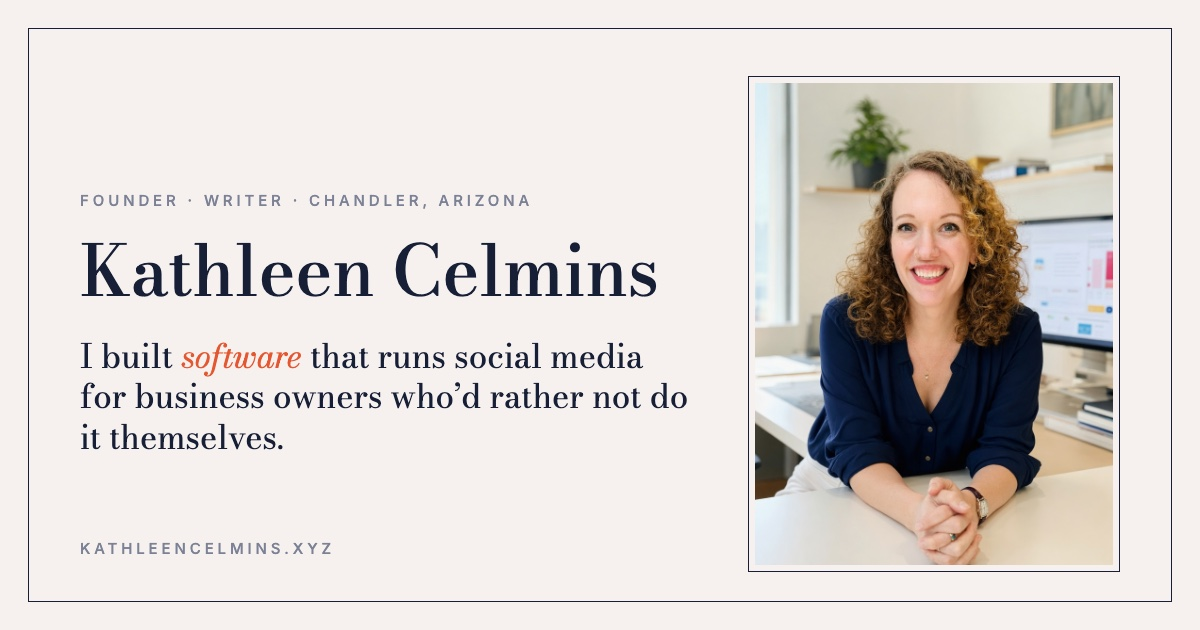
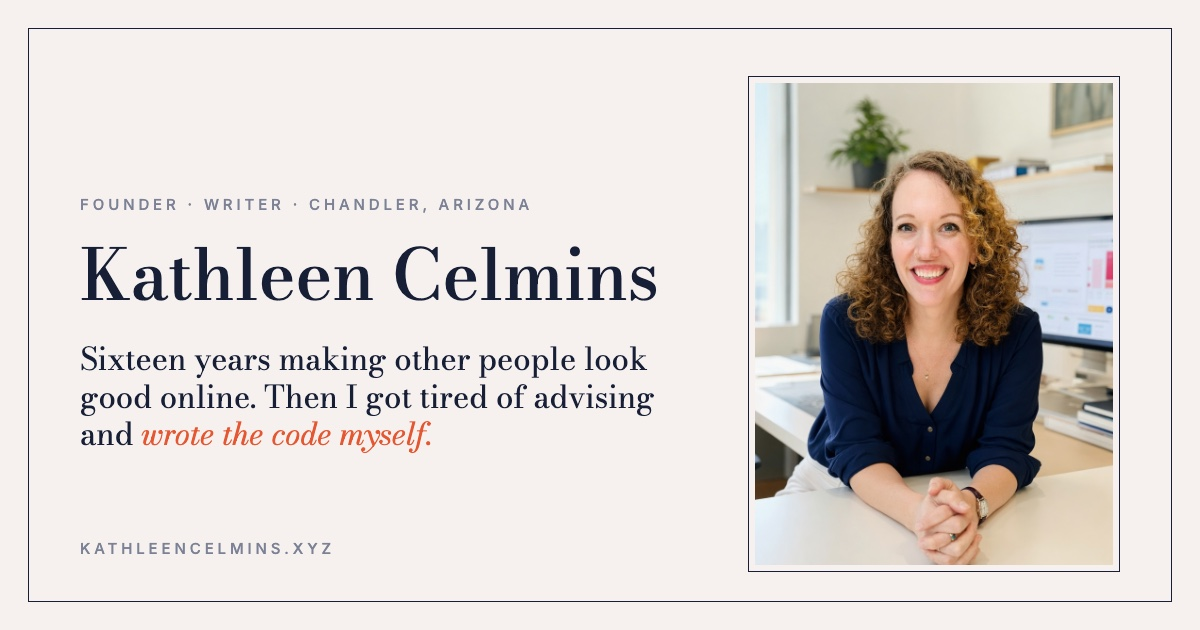
The homepage speaks in her voice: receipts, said flat
The first cut used boomp's calm customer voice, and she read it as boring.
The hero is now her line ("Sixteen years making other people look good
online. Then I got tired of advising and wrote the code myself.", the last
clause in Tangerine italic), the bio names the software, the price as an
explanation, and the facts: 5,600 commits since May 2025, nobody raised a
round. A tracked-caps receipts line sits under the button: HubSpot
contributor, SCORE Phoenix contributor, 200+ commits a month, 0 rounds
raised. Every number is read from her repos today; 200+ a month has held
since spring, so it is stated as a floor rather than last month's exact
count. The about page's Elsewhere line gains HubSpot and SCORE (the SCORE
link is its canonical contributor path; the old greaterphoenix path
redirects). The share card carries the new hero line.

diff --git a/app/page.js b/app/page.js
@@ -18,23 +18,26 @@ export default function Home() {
         <div className="home-hero-content">
           <p className="home-kicker">Founder &middot; Writer &middot; Chandler, Arizona</p>
           <h1 className="home-greeting">
-            I built <em>software</em>{" "}that runs social media for business
-            owners who&rsquo;d rather not do it themselves.
+            Sixteen years making other people look good online. Then I got
+            tired of advising and <em>wrote the code myself.</em>
           </h1>
           <div className="hero-rule" />
           <p className="home-bio">
-            It reads your website, writes the posts, and all you do is say
-            yes. That&rsquo;s <a href="https://boomp.net">boomp.net</a>.
+            That software is <a href="https://boomp.net">boomp.net</a>. It
+            reads your website, writes the posts, you say yes. That&rsquo;s
+            why it&rsquo;s ninety-nine bucks and not two grand.
           </p>
           <p className="home-bio">
-            I&rsquo;m Kathleen Celmins, the founder. I&rsquo;ve worked in
-            marketing since 2010; in 2025 I stopped advising on it and built
-            the software instead. I write the code, answer the support email,
-            and decide what ships.
+            I built it, I run it, I answer the support email. 5,600 commits
+            since May 2025. Nobody raised a round.
           </p>
           <a className="hero-cta" href={FIRST_LOOK_URL}>
             See what it would say about you
           </a>
+          <p className="home-receipts">
+            HubSpot contributor &middot; SCORE Phoenix contributor &middot;
+            200+ commits a month &middot; 0 rounds raised
+          </p>
         </div>
       </section>
 

diff --git a/app/globals.css b/app/globals.css
@@ -184,6 +184,11 @@ main{flex:1;width:100%}
   transition:background var(--transition),color var(--transition);
 }
 .hero-cta:hover{background:transparent;color:var(--ink);text-decoration:none}
+.home-receipts{
+  font-family:var(--font-body);font-size:var(--text-xs);font-weight:700;
+  letter-spacing:0.16em;text-transform:uppercase;color:var(--ink-muted);
+  margin:var(--space-xl) 0 0;max-width:44em;line-height:2;
+}
 .posts-heading{
   font-family:var(--font-display);font-size:var(--text-2xl);font-weight:800;
   color:var(--ink);letter-spacing:-0.03em;line-height:1.05;
@@ -514,7 +519,7 @@ main{flex:1;width:100%}
   --rule:#171F37;--rule-soft:#D6CFCC;--index:#BDB6B3;
   --accent:#004AAC;--accent-deep:#00337A;--accent-warm:#E55730;
   --font-display:var(--font-bodoni),'Bodoni Moda','Didot','Bodoni MT',serif;
-  --text-hero:clamp(2.125rem,4.6vw,3.875rem);
+  --text-hero:clamp(2.25rem,5vw,4.25rem);
 }
 @media (prefers-color-scheme:dark){
   :root:not([data-theme="light"]){
@@ -556,6 +561,7 @@ pre{background:var(--bone-deep);color:var(--ink);border:1px solid var(--rule-sof
 .home-bio{max-width:34em}
 .home-kicker{font-weight:500;letter-spacing:0.26em}
 .hero-cta{border-width:1px;letter-spacing:0.24em;font-weight:500;padding:0.95rem var(--space-2xl)}
+.home-receipts{font-weight:500;letter-spacing:0.24em}
 .posts-heading{font-weight:400;letter-spacing:0;line-height:1.1}
 .posts-heading em{font-style:italic;color:var(--accent-warm)}
 .section-label{background:transparent;color:var(--ink-muted);padding:0;letter-spacing:0.26em;font-weight:500}

diff --git a/app/about/page.js b/app/about/page.js
@@ -79,7 +79,9 @@ export default function AboutPage() {
           <p>
             <strong>Elsewhere.</strong>{" "}
             <a href="https://boomp.net">boomp.net</a> &middot;{" "}
-            <a href="https://www.linkedin.com/in/kathleencelmins/">LinkedIn</a>
+            <a href="https://www.linkedin.com/in/kathleencelmins/">LinkedIn</a> &middot;{" "}
+            <a href="https://blog.hubspot.com/marketing/author/kathleen-celmins">HubSpot</a> &middot;{" "}
+            <a href="https://www.score.org/contributor/kathleen-celmins/">SCORE</a>
           </p>
         </div>
 
